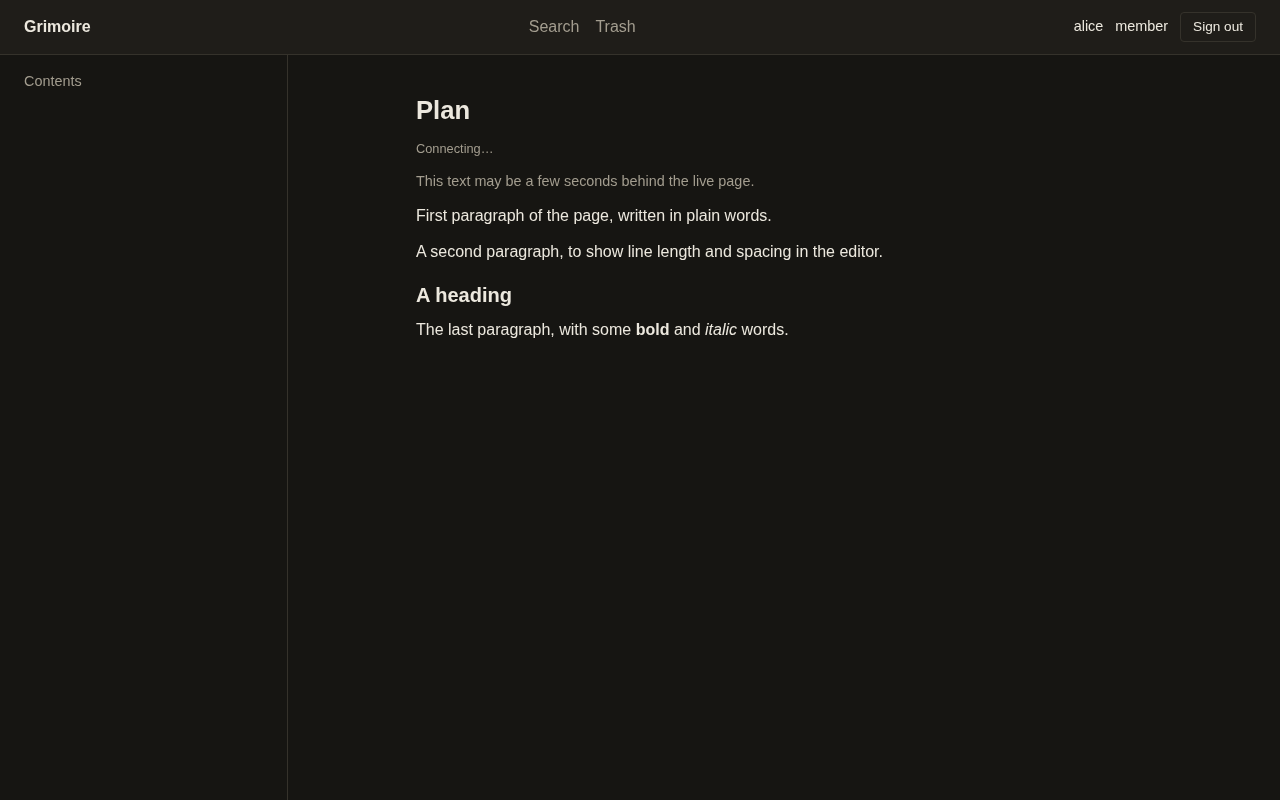
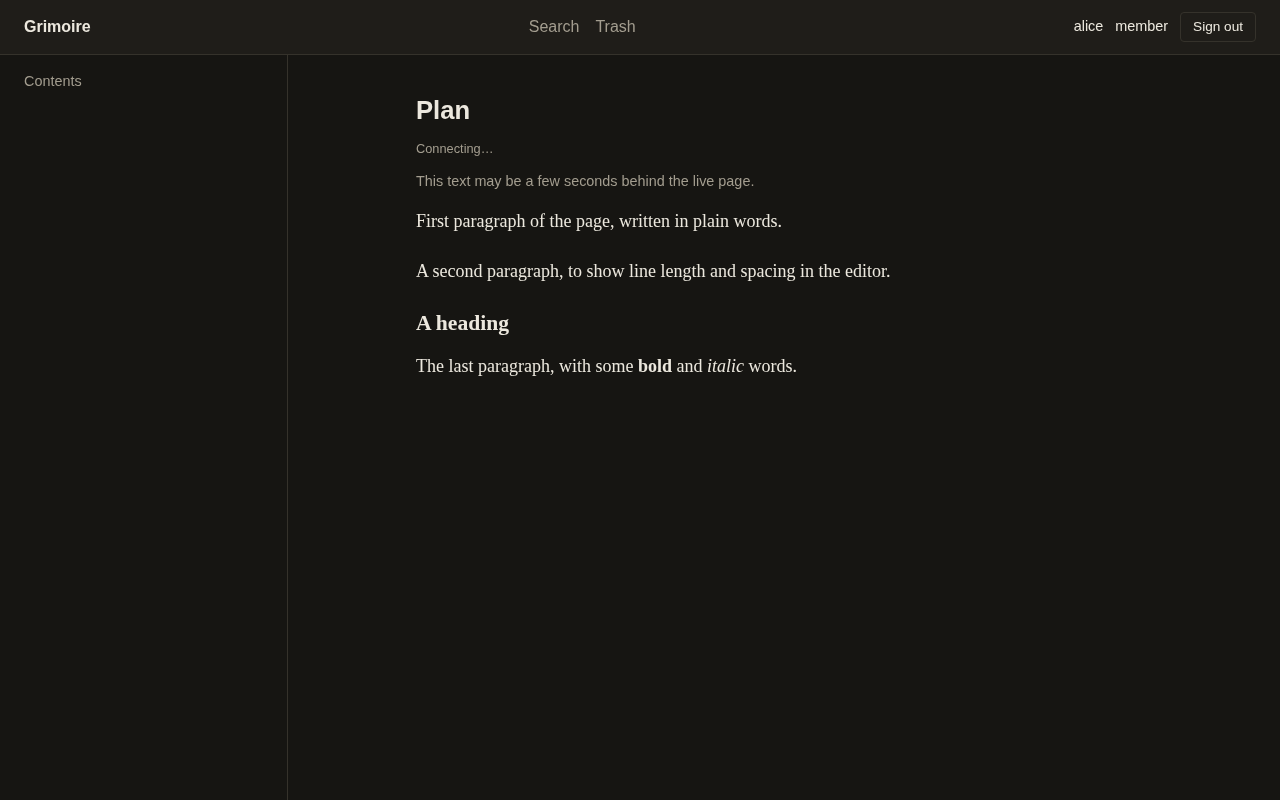
fix(web): set the page text in the reading column (page font and measure); retake the screenshots

Changed region(s): [[0.3125, 0.25, 0.6875, 0.4688]]

diff --git a/apps/web/src/screens/page/PageView.tsx b/apps/web/src/screens/page/PageView.tsx
@@ -143,7 +143,7 @@ export function PageView({ page, engine = realEngine }: { page: PageMeta; engine
         </p>
         {state.banner !== null ? <p className="page-banner">{state.banner}</p> : null}
         {showingSaved && stale ? <p className="page-stale">{STALE_TEXT}</p> : null}
-        <div ref={rootRef} className="page-editor" data-collab-state={collab} data-testid="editor-root" />
+        <div ref={rootRef} className="page-editor page-text" data-collab-state={collab} data-testid="editor-root" />
       </article>
       <div className="page-margin">
         <Outline />

diff --git a/apps/web/test/editor/page-view.test.tsx b/apps/web/test/editor/page-view.test.tsx
@@ -261,4 +261,9 @@ describe('the page screen', () => {
     act(() => void t.sessions[0]!.provider.emit({ type: 'authenticated', scope: 'readonly' }));
     expect(screen.getAllByText('Read only')).toHaveLength(1);
   });
+
+  it('sets the text in the reading column: the page-text class (the page font and the measure) is on the editor root', async () => {
+    const t = mountPage();
+    expect(t.root().classList.contains('page-text')).toBe(true);
+  });
 });
